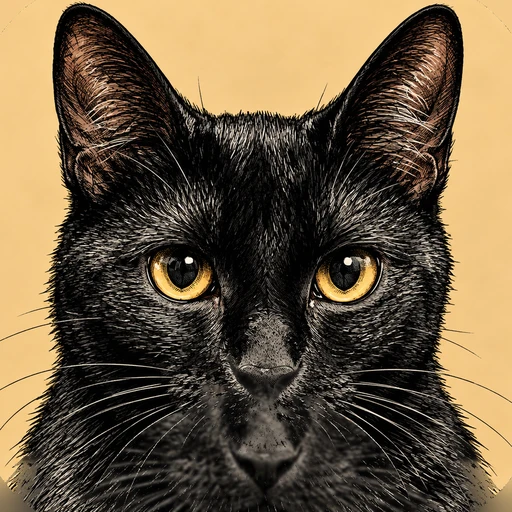
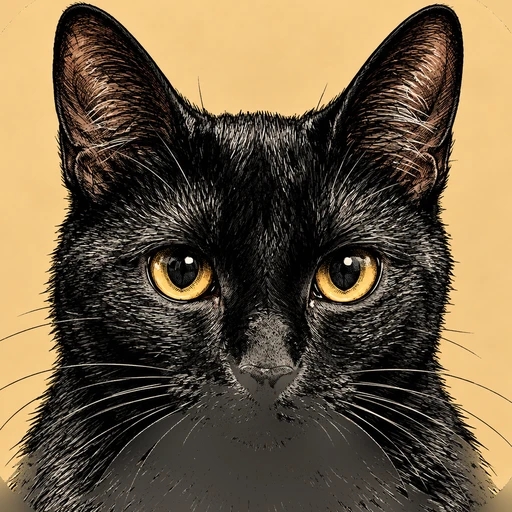
fix(brand): Luna's chest from the pack's painted version, registered and matched (#23)
Six fills went into this one hole and each failed in its own way: a flat fill
blurs, a downward roll carries her muzzle into the chest (a second mouth), a
mirror copies the same rows the muzzle lives in (a ghost nose), and a tiled
forehead patch shows as a box with the wrong tone.

The newer file in the pack has the chest painted by the artist, so the fill is
those pixels: -subimage-search registers it against the old art (same scale,
offset +88+87, residual 0.14 versus 0.42 unaligned), the patch is tone-matched to
the fur ring around the hole and feathered in. The corners keep the full-art
diffusion, so they remain the tile's gold.

Changed region(s): [[0.1562, 0.7188, 0.8438, 1.0], [0.875, 0.8438, 0.9375, 0.9375], [0.0312, 0.875, 0.0938, 0.9062]]

diff --git a/odd/tasks/visual-polish.md b/odd/tasks/visual-polish.md
@@ -52,9 +52,9 @@ Reading, now settled: the showcase (`showcase/02_asset_distribution_showcase.png
 Acceptance: each `public/apps/*/icon.webp` is the pack's `icon-1024.png` **cropped to 88%** (which removes the tile's rounded corners and its edge shading while leaving the ear tips, measured between 7% and 10% from the edge, intact), then filled in two stages — diffusion for any residual corner transparency, the art's own fur rolled 120px down through a corner-free mask for the keyed holes — and resized to a 512x512 opaque square. No rim, no inner margin beyond the card's own, no invented colour, whole head.
 Status: done. History: 80% crop -> 86% crop -> whole tile, gold corners -> v2 whole tile -> diffusion only -> diffusion + rolled fur -> diffusion + rolled fur + 88% crop -> flat fur-coloured holes -> Luna's own-fur fill.
 
-S11b — Luna's chest is fur, not a flat patch, and not a second face.
-Quotes: "todos estan bien, menos otra vez por difuminacion en la parte del centro abajo [Image 2] la negrita LUNA :(. SOlo ajusta esa" and then "[Image 1] le hiciste la boca doble jaja".
-Reading: a flat fill has no strokes (the blur), and rolling the *face* area down carries the muzzle into the chest (the second mouth). Acceptance: Luna's hole is filled from two sources that cannot contain a face — the art **mirrored horizontally** (her flank fur lands where the hole is) and a roll of a fur-only source whose **face band is masked out** (a 22-78% by 30-58% rectangle), over the plain diffusion; the corners keep the full-art diffusion, hence the tile's gold. Verified: corner `srgb(244,202,137)`, chest samples `srgb(40,34,25)` / `srgb(60,57,51)` / `srgb(23,21,17)` — fur tones with strokes and no pale wash — and the card render shows no second mouth.
+S11b — Luna's chest is fur, not a flat patch, not a second face, and not a visible patch.
+Quotes: "todos estan bien, menos otra vez por difuminacion en la parte del centro abajo [Image 2] la negrita LUNA :(. SOlo ajusta esa" then "[Image 1] le hiciste la boca doble jaja".
+Reading, after six fills: a flat fill blurs; rolling her art down carries the muzzle into the chest; mirroring it copies the same rows the muzzle lives in (a ghost nose); and a tiled patch from her forehead shows as a box with the wrong tone. What works is the pack's newer file, whose chest the artist *did* paint: `-subimage-search` registers it (same scale, offset +88+87, residual 0.14 against 0.42 unaligned) and its chest pixels are tone-matched to the fur ring around the hole and feathered in. Acceptance: Luna's hole shows painted fur, the corners keep the full-art diffusion (the tile's gold `srgb(244,202,137)`), and the card render shows no second mouth, no ghost nose, no box and no pale wash.
 
 S18 — The Look'n'Feel plugin cover is the art from the icons folder, uncropped.
 Quote: "la imagen original de looknfeel que ambien esta en la carpeta de iconos no tiene tanto zoom".
@@ -118,7 +118,8 @@ T29 (S11/S18) Covers cropped to 88% before the fills (the frame gone, the ears k
 T30 (S11) Holes filled flat with the colour they were cut from: white for Kiroi, Lucky, Mochi and Yummi, Luna's sampled fur for Luna — inline — done, `dc8b34d`. Fixed the blue patch on Mochi's forehead and the olive one on Luna's chest that the fur roll had dragged in.
 T31 (S18) Look'n'Feel cover rebuilt from the owner's own art at `iconos mepersoft/omarchy-plugins/loknfeel.jpg` (the file that moved out of Downloads) — inline — done, `dc8b34d`.
 T32 (S11b) Luna's hole filled with her own fur only: the tile's gold keyed out of the texture source, diffusion plus a rolled copy for strokes, corners still gold — inline — done, superseded by T33 because the roll carried her muzzle down.
-T33 (S11b) Luna's hole filled from two face-free sources: the art mirrored horizontally inside the hole mask, plus a roll of the fur-only source with its face band masked out, over the diffusion — inline — done. Verified: no second mouth in the card render, corners stay the tile gold, chest samples in fur tones.
+T33 (S11b) Luna's hole filled from two face-free sources: the art mirrored horizontally inside the hole mask, plus a roll of the fur-only source with its face band masked out, over the diffusion — inline — done, superseded by T34: the mirror copies the same rows the muzzle lives in, so it produced a ghost nose.
+T34 (S11b) Luna's hole filled from the pack's newer file, registered with `-subimage-search` (same scale, +88+87), tone-matched to the fur ring around the hole and feathered — inline — done. Verified in the card render: painted fur, no second mouth, no ghost nose, no box, corners still the tile's gold. Six fills were tried in total; the rejected ones are recorded in the Log because each failure mode is a trap worth remembering.
 
 ## Log
 
@@ -229,6 +230,12 @@ L37 (verbatim, owner — tenth message):
 > [Image 1] le hicisye la boca doble jaja [Image 2]
 
 L38 — The roll was still pulling from the wrong place: rolling the art down carried her *muzzle* into the chest, so the cover showed a second mouth, and the fur-only diffusion underneath left a pale wash where the whiskers had been keyed in. The fill now takes its texture from two sources that cannot contain a face — the art mirrored horizontally, and a roll of the fur-only source with its face band masked out — which keeps the strokes and drops the duplication. The lesson generalises: when filling with a shifted copy of an art, mask out whatever the shift would bring along that must not repeat.
+
+L39 (verbatim, owner — eleventh message):
+> [Image 1] xd
+
+L40 — That "xd" was a ghost nose: the *mirror* copies the same rows the muzzle lives in, so putting the art's right half into the left of the hole duplicated the nose. Six fills were tried on this one hole, and the traps are worth naming: a flat fill blurs; a downward roll carries the muzzle down; a mirror duplicates the same rows; a tiled forehead patch shows as a box with the wrong tone; masking the roll's face band leaves a seam. What worked was the pack's *newer* file, where the artist painted the chest: `-subimage-search` registers it against the old art (same scale, offset +88+87, residual 0.14 versus 0.42 unaligned) and those pixels are tone-matched and feathered into the hole.
+
 
 
 
